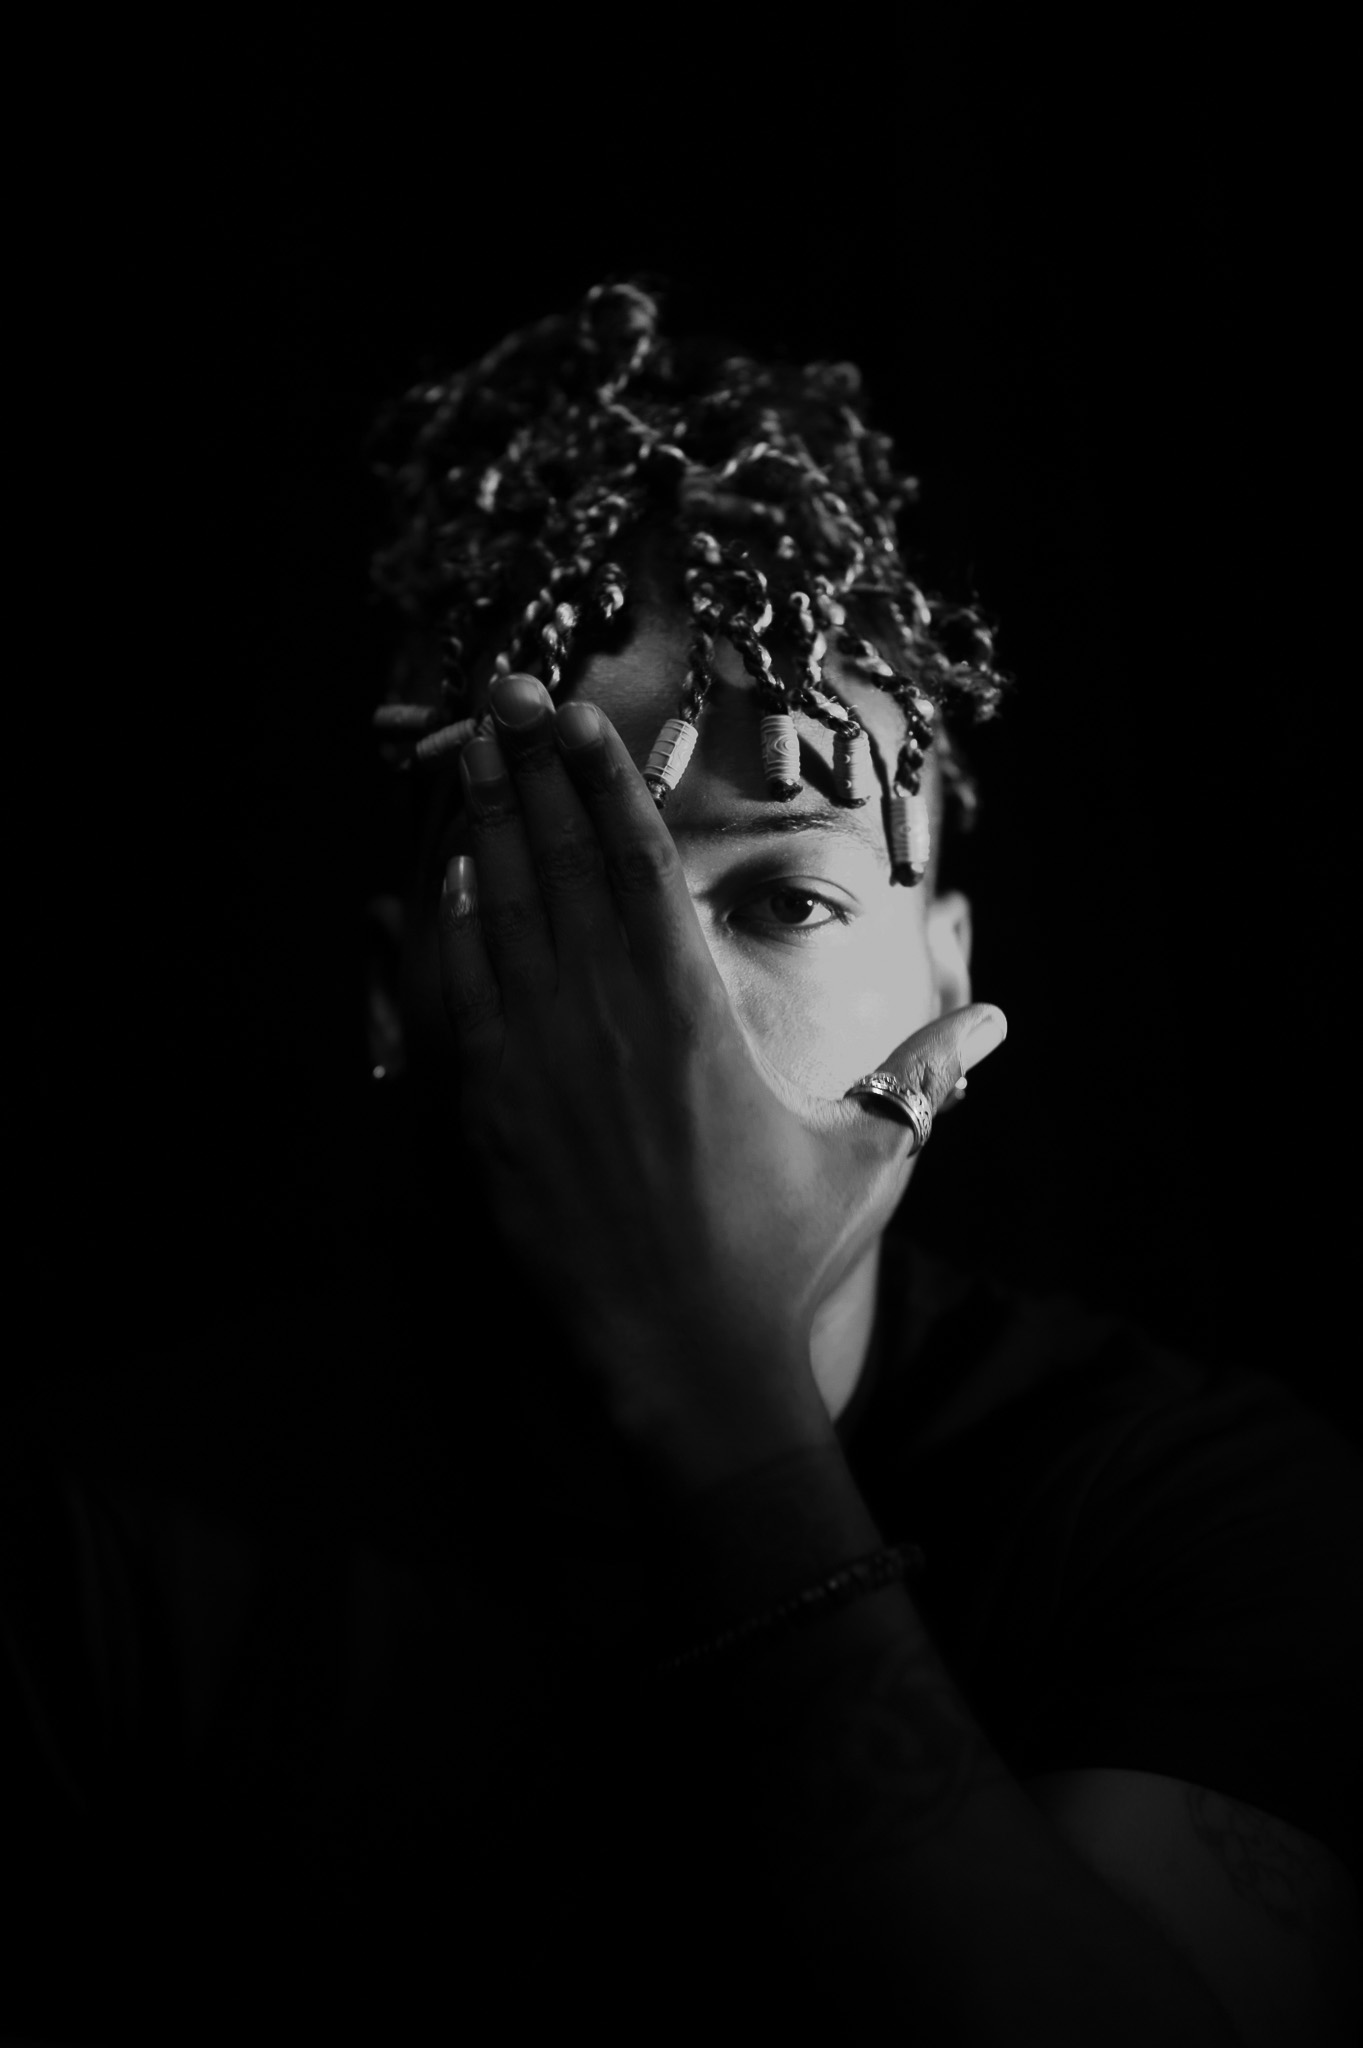
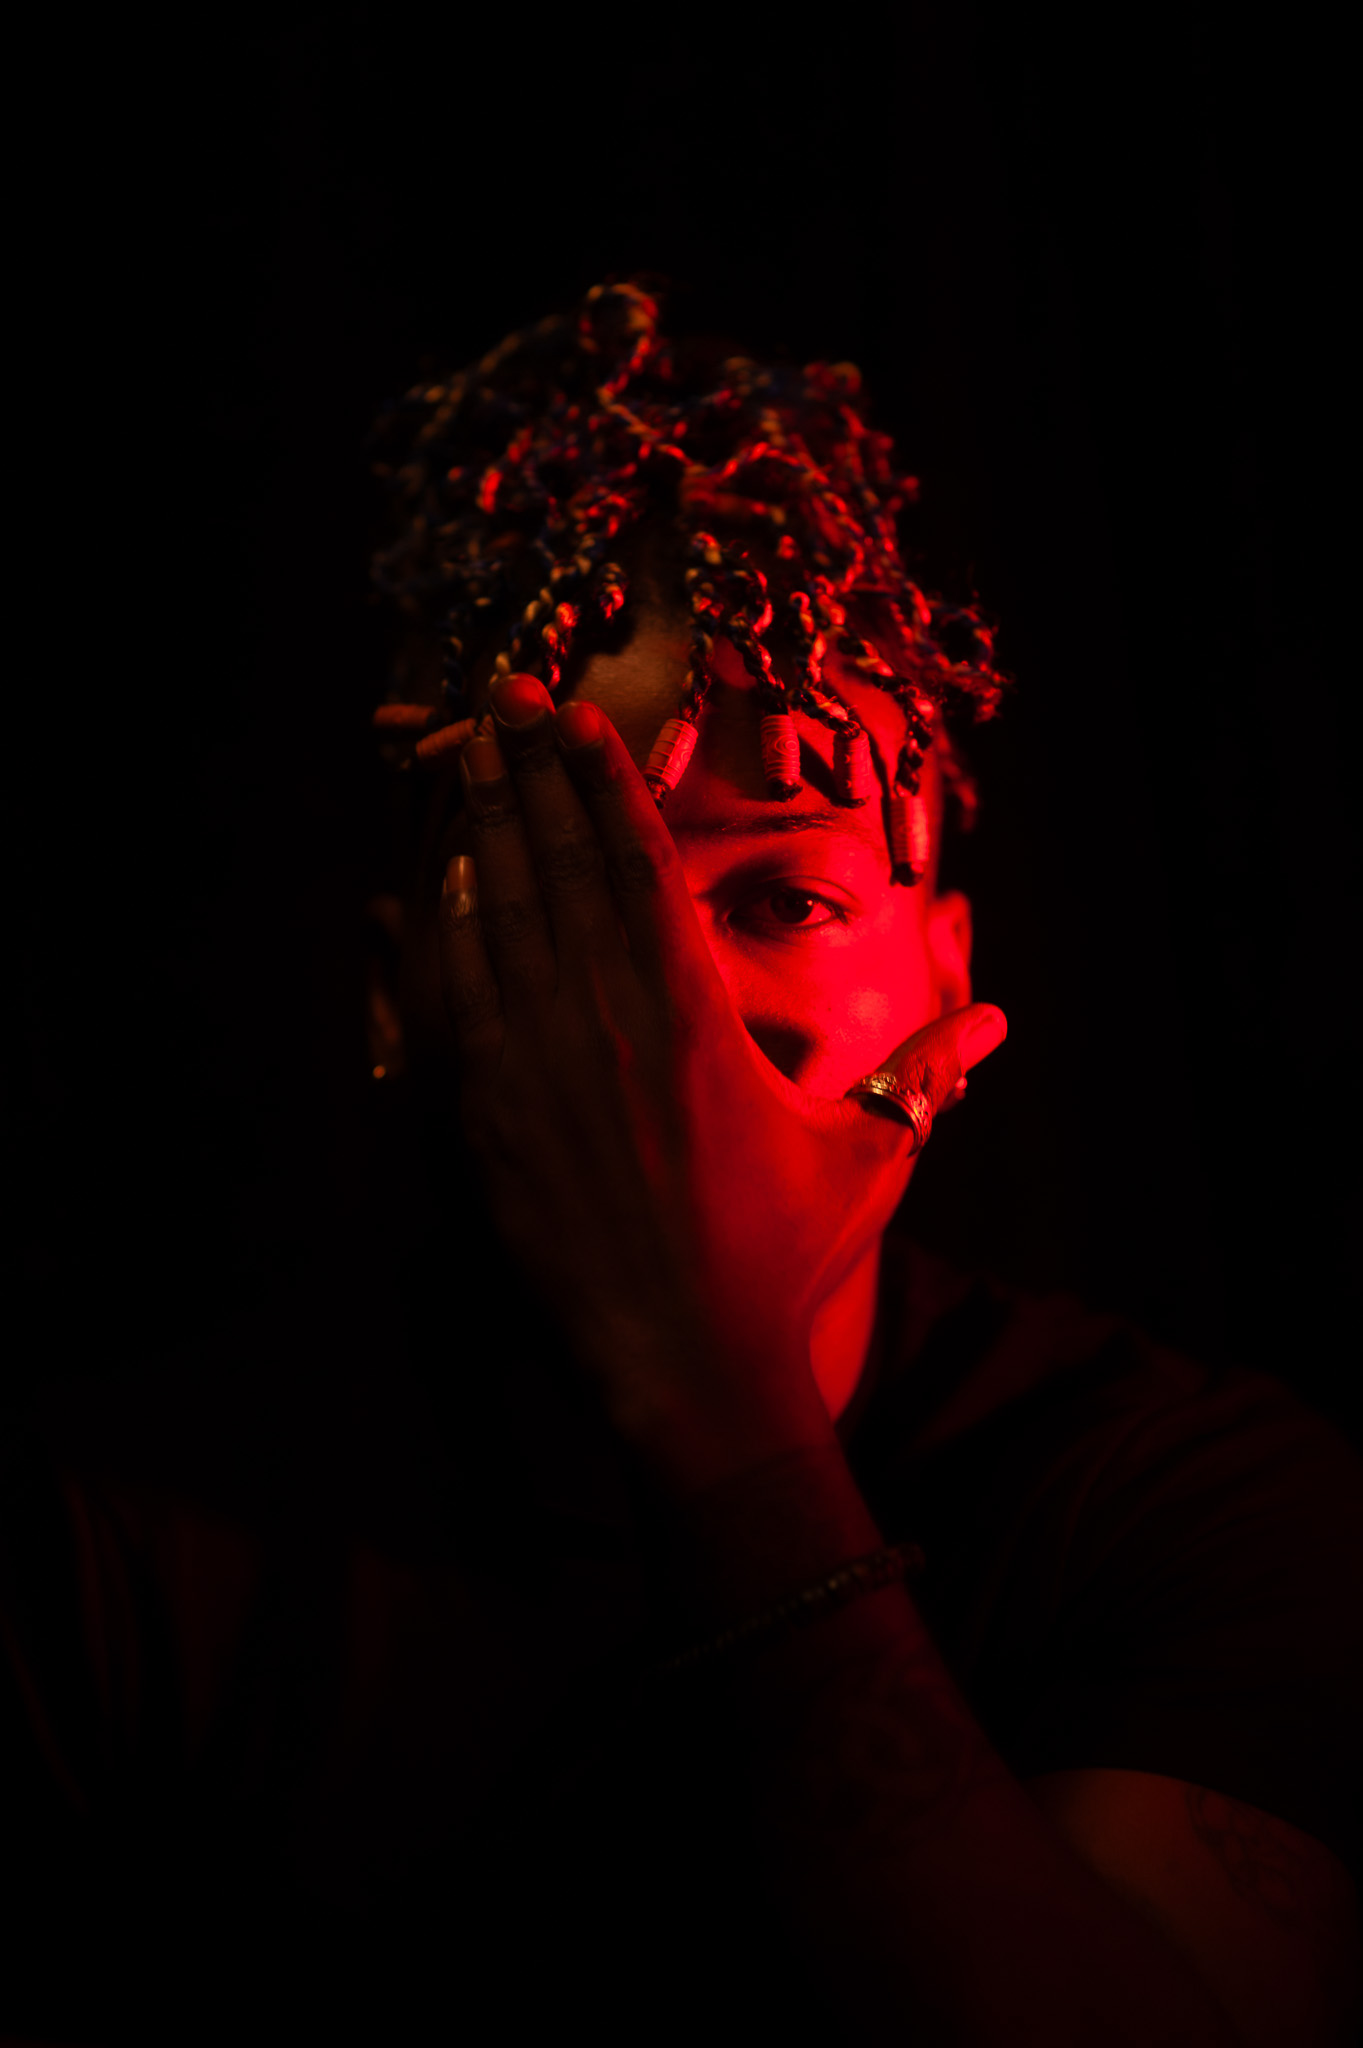
Crossfade two covers on the Herton series tile, extend coverImages to series
Trims Herton back to 6 photos and generalizes the crossfade cover
feature (previously category-only) to individual series tiles.

diff --git a/src/data/portfolio.ts b/src/data/portfolio.ts
@@ -77,13 +77,13 @@ import portraitWolfgang04 from "@/images/portfolio/portrait/wolfgang/04.jpg";
 import portraitWolfgang05 from "@/images/portfolio/portrait/wolfgang/05.jpg";
 import portraitWolfgang06 from "@/images/portfolio/portrait/wolfgang/06.jpg";
 import portraitHertonCover from "@/images/portfolio/portrait/herton/cover.jpg";
+import portraitHertonCover2 from "@/images/portfolio/portrait/herton/cover2.jpg";
 import portraitHerton01 from "@/images/portfolio/portrait/herton/01.jpg";
 import portraitHerton02 from "@/images/portfolio/portrait/herton/02.jpg";
 import portraitHerton03 from "@/images/portfolio/portrait/herton/03.jpg";
 import portraitHerton04 from "@/images/portfolio/portrait/herton/04.jpg";
 import portraitHerton05 from "@/images/portfolio/portrait/herton/05.jpg";
 import portraitHerton06 from "@/images/portfolio/portrait/herton/06.jpg";
-import portraitHerton07 from "@/images/portfolio/portrait/herton/07.jpg";
 import portraitArtyCover from "@/images/portfolio/portrait/arty/cover.jpg";
 import portraitArty01 from "@/images/portfolio/portrait/arty/01.jpg";
 import portraitArty02 from "@/images/portfolio/portrait/arty/02.jpg";
@@ -190,6 +190,8 @@ export type CategorySlug =
 export type Series = {
   slug: string;
   cover: StaticImageData;
+  /** Additional covers to crossfade through on the series tile, alongside `cover`. */
+  coverImages?: StaticImageData[];
   images: StaticImageData[];
   /** 0-based indices in `images` that should be displayed side-by-side with the next photo. */
   pairAfter?: number[];
@@ -303,9 +305,10 @@ export const categories: CategoryData[] = [
       {
         slug: "herton",
         cover: portraitHertonCover,
+        coverImages: [portraitHertonCover, portraitHertonCover2],
         images: [
           portraitHerton01, portraitHerton02, portraitHerton03, portraitHerton04,
-          portraitHerton05, portraitHerton06, portraitHerton07,
+          portraitHerton05, portraitHerton06,
         ],
       },
       {

diff --git a/src/app/[locale]/portfolio/[category]/page.tsx b/src/app/[locale]/portfolio/[category]/page.tsx
@@ -62,6 +62,7 @@ export default async function CategoryPage({
           items={data.series.map((series) => ({
             href: `/${locale}/portfolio/${category}/${series.slug}`,
             cover: series.cover,
+            covers: isSeriesGroup(series) ? undefined : series.coverImages,
             label: info.series[series.slug] ?? series.slug,
           }))}
         />

diff --git a/src/app/[locale]/portfolio/[category]/[series]/page.tsx b/src/app/[locale]/portfolio/[category]/[series]/page.tsx
@@ -73,6 +73,7 @@ export default async function SeriesPage({
           items={seriesData.subseries.map((sub) => ({
             href: `/${locale}/portfolio/${category}/${series}/${sub.slug}`,
             cover: sub.cover,
+            covers: sub.coverImages,
             label: subLabels[sub.slug] ?? sub.slug,
           }))}
         />
